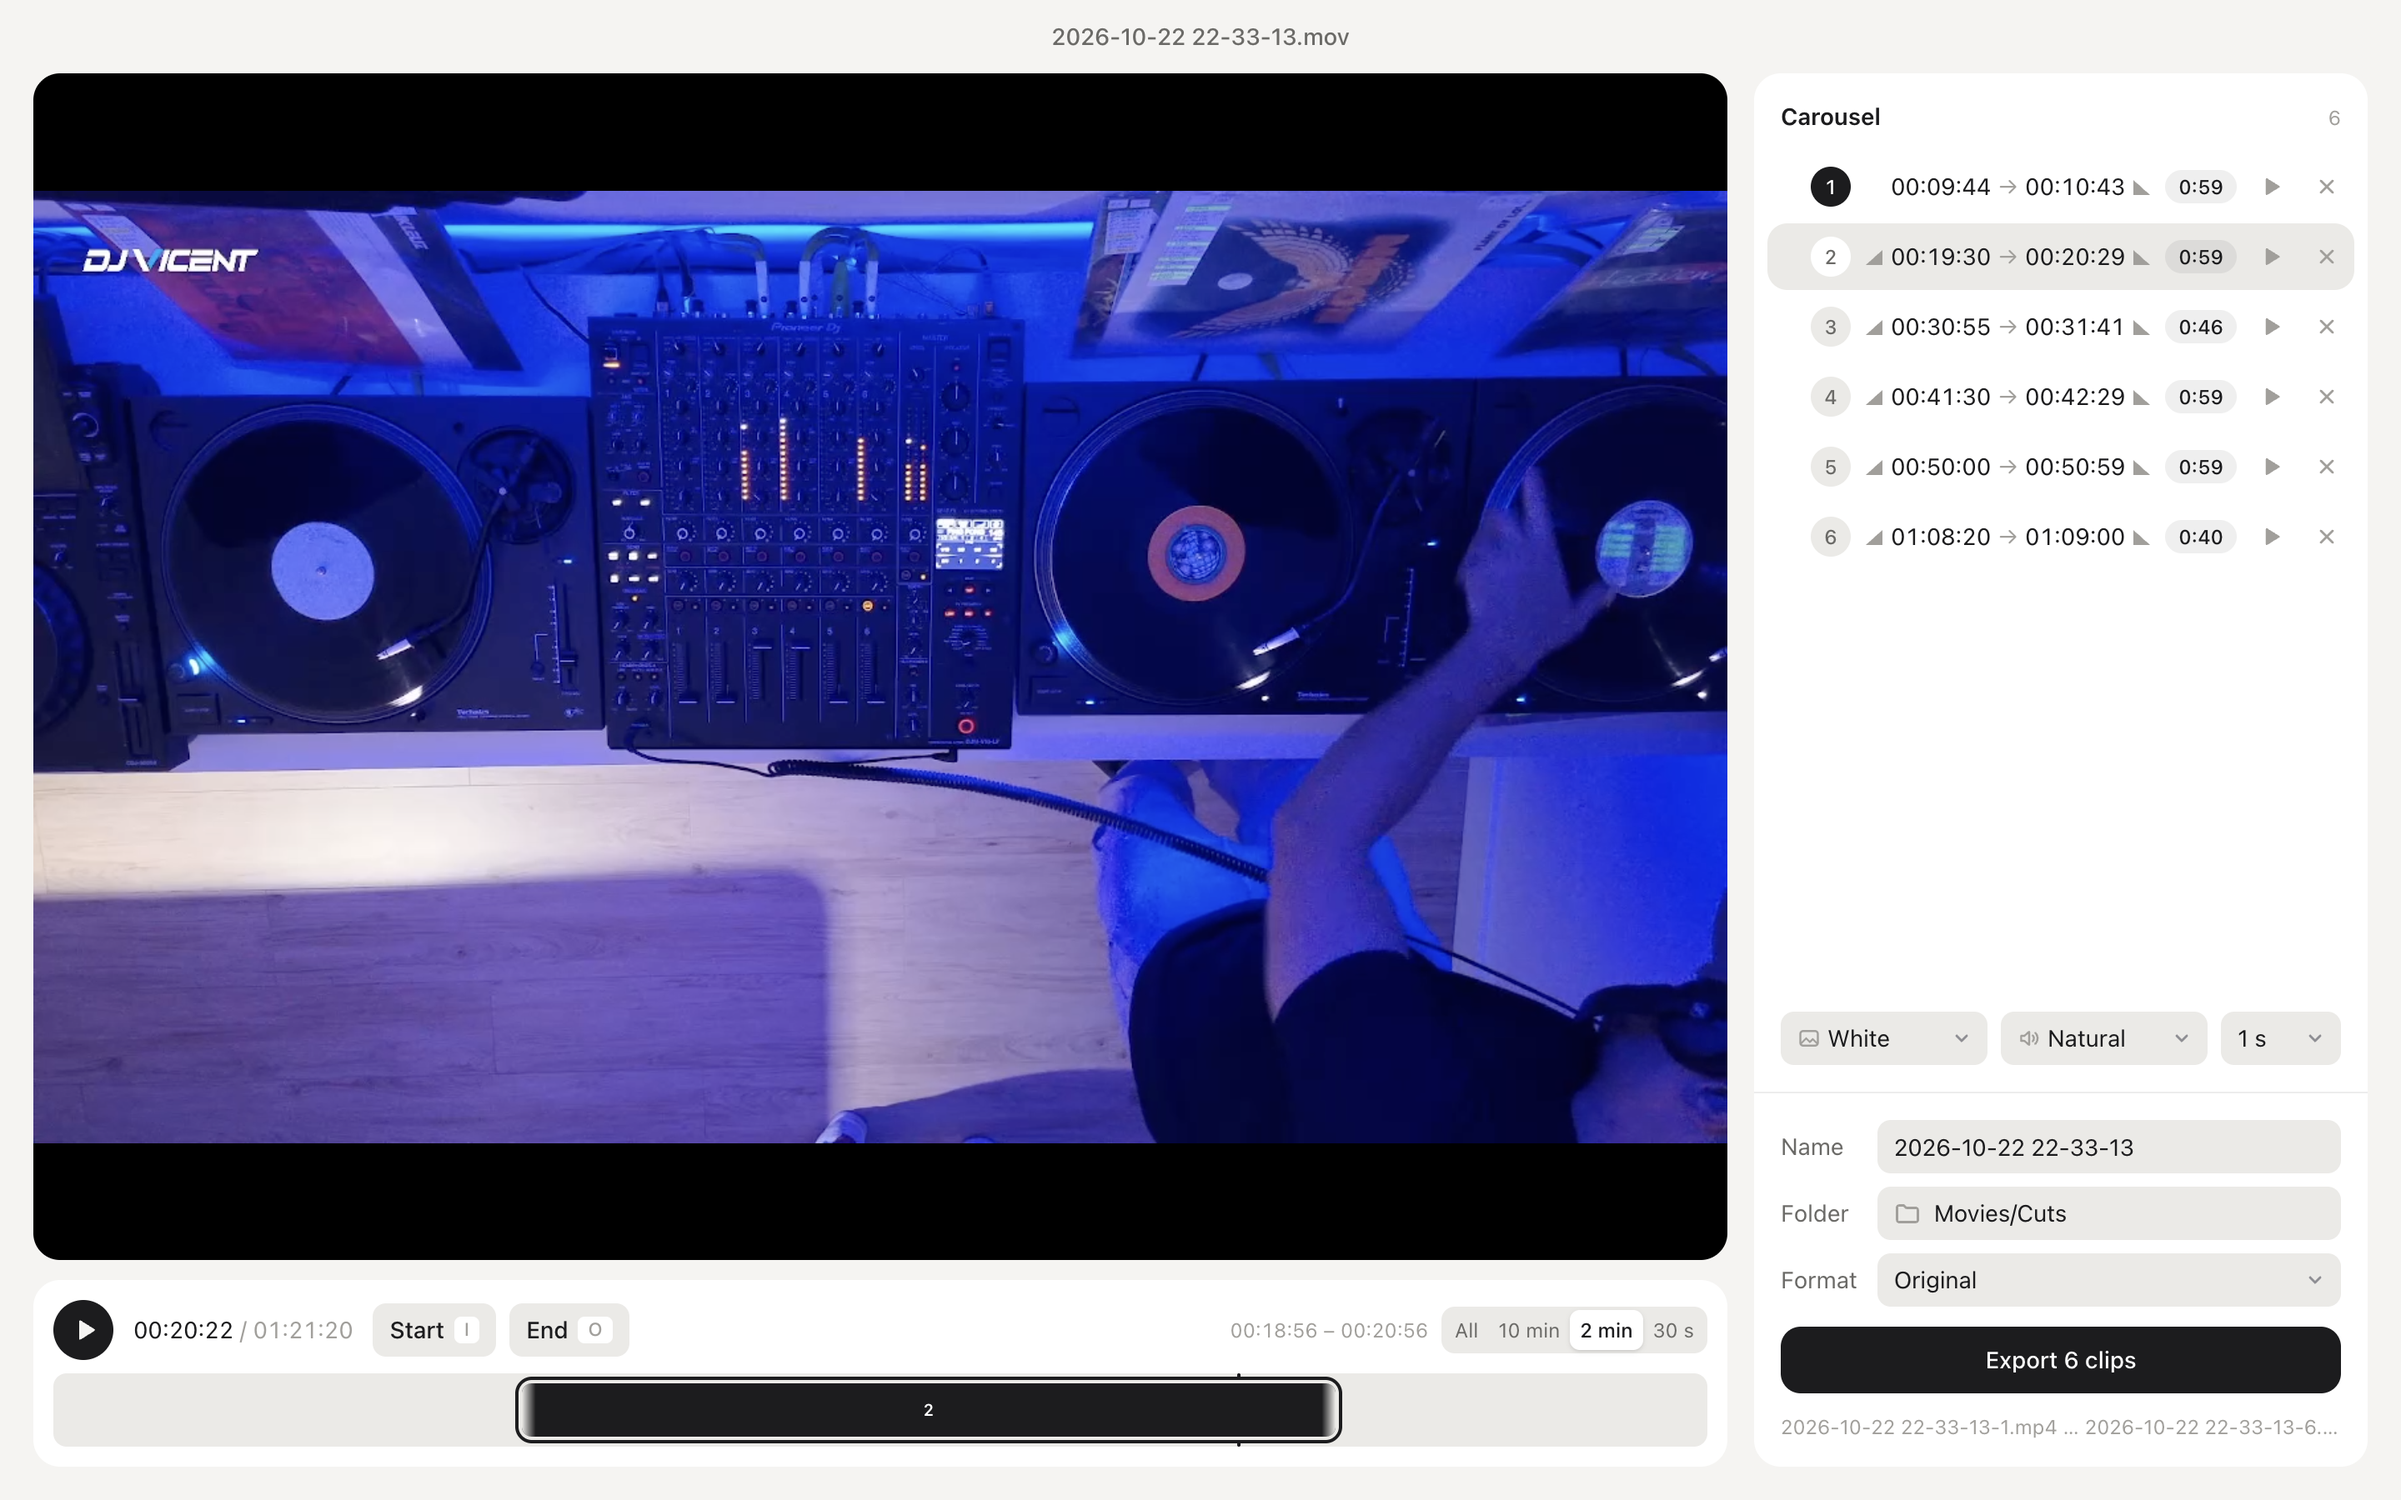
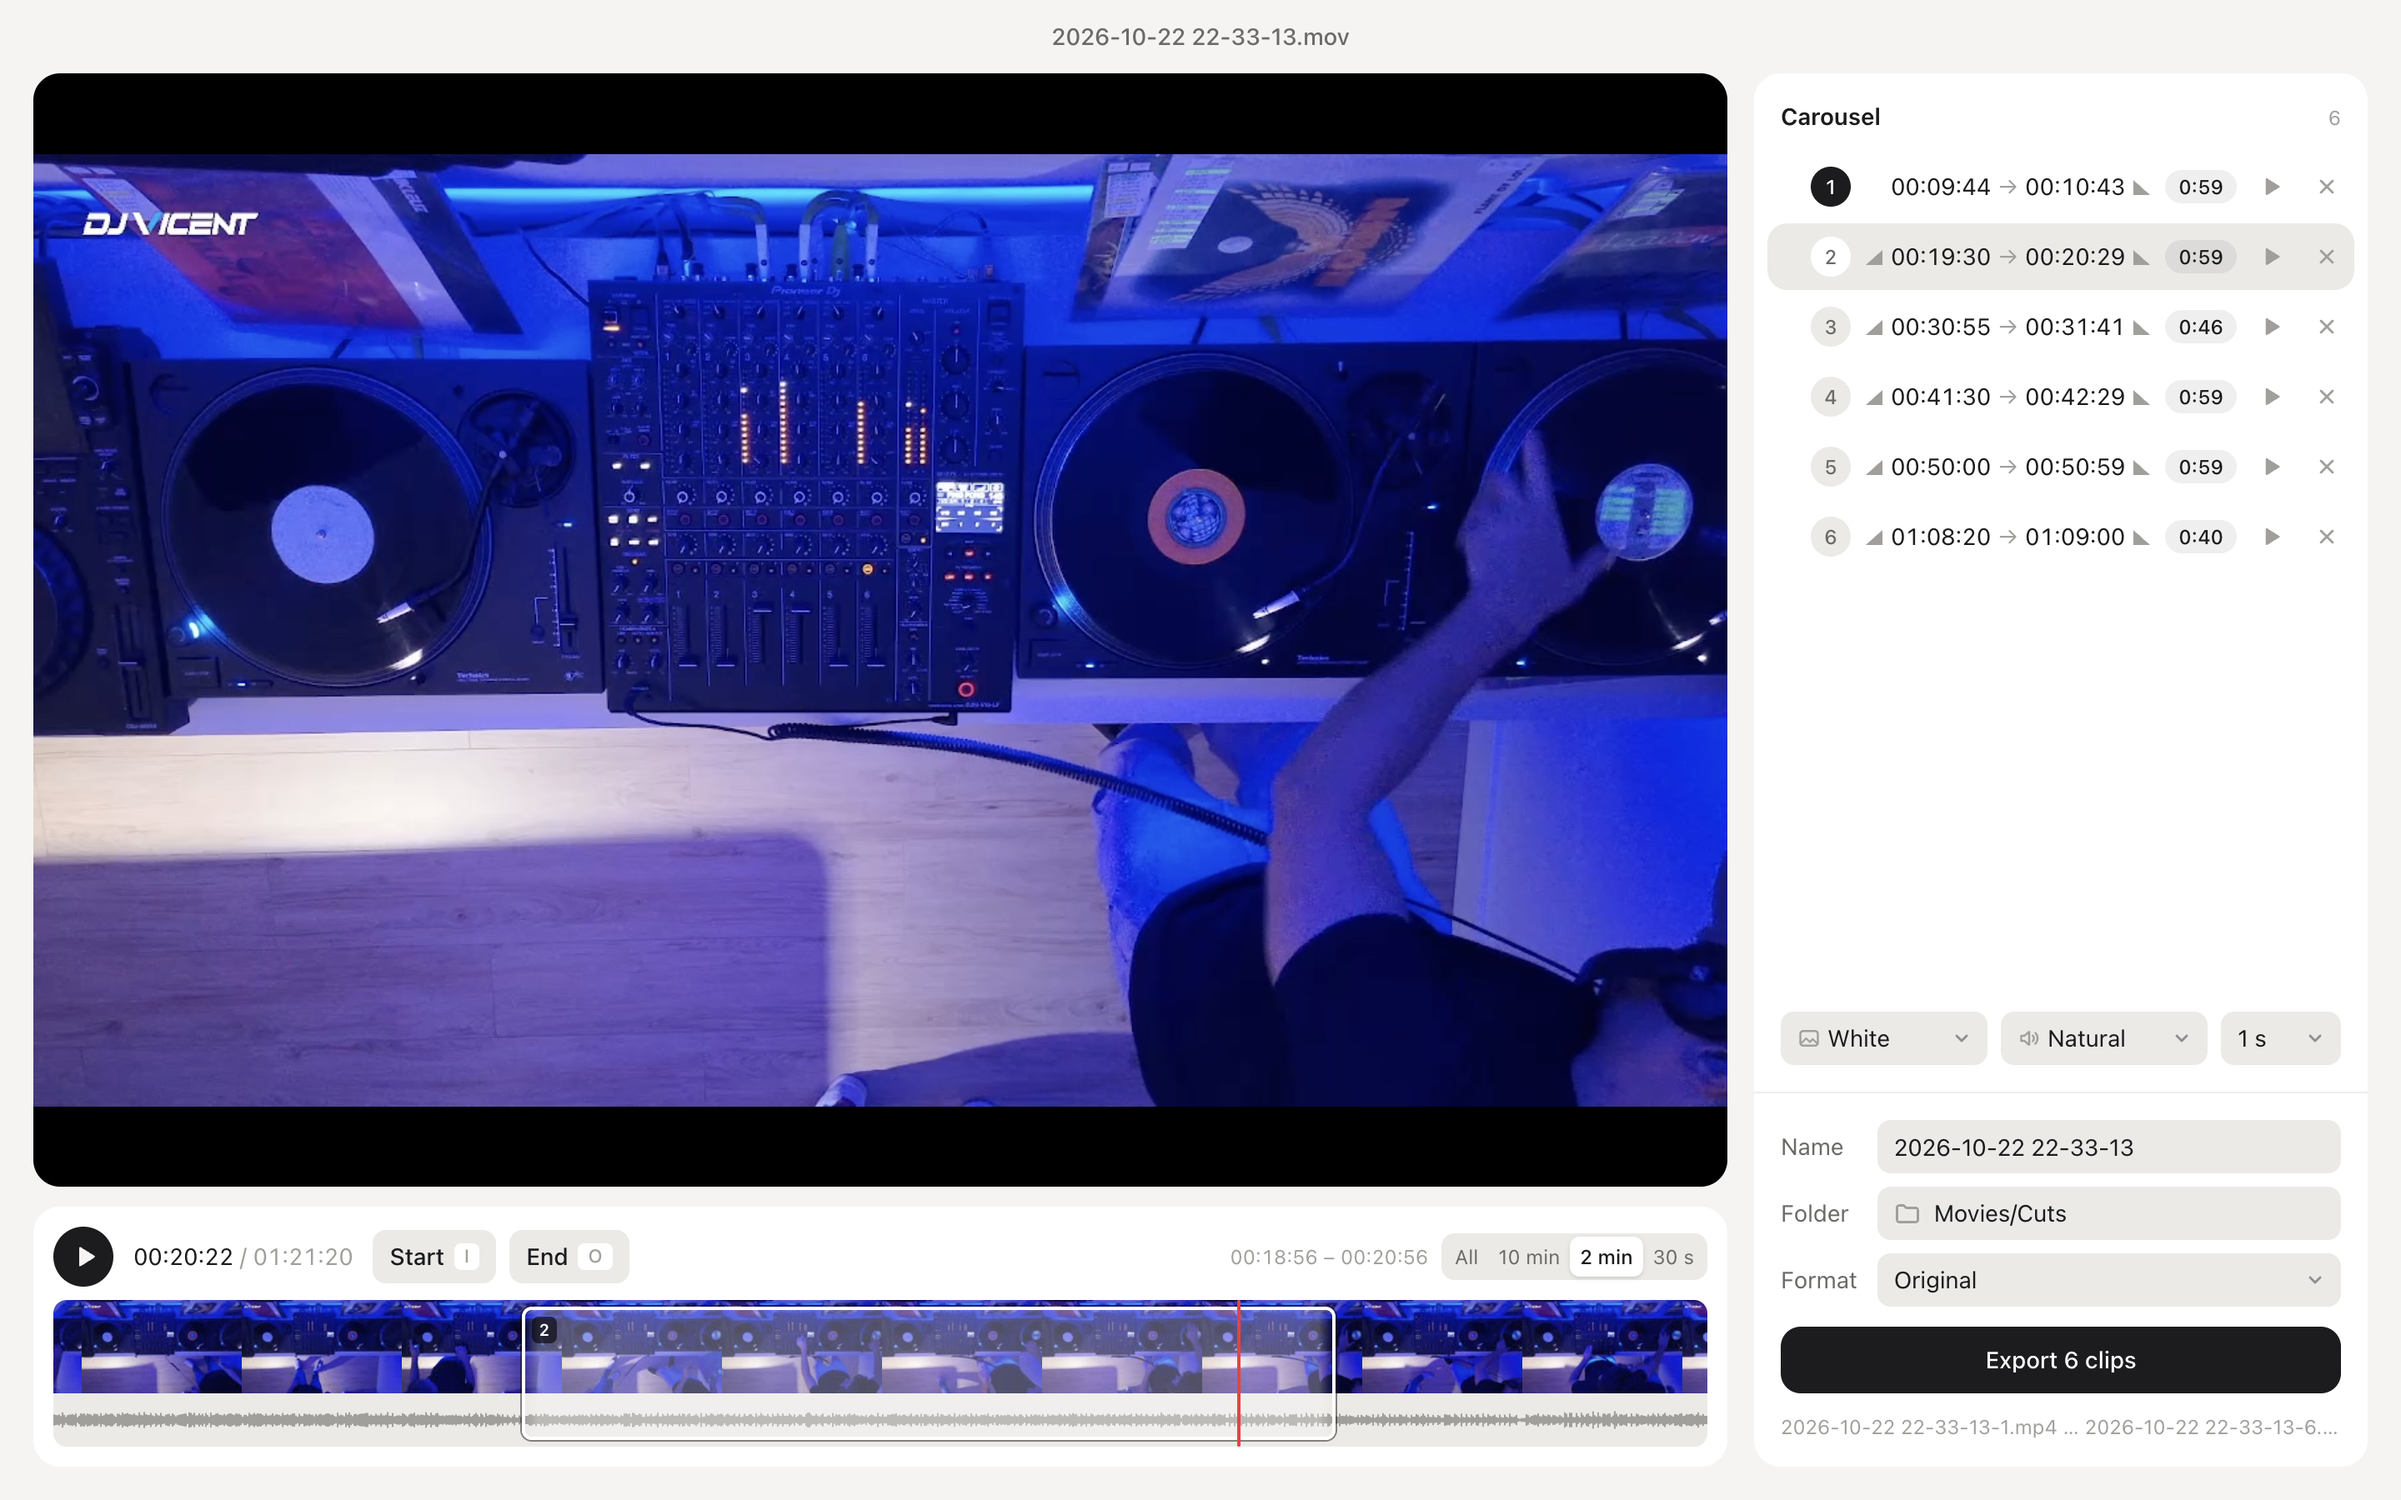
Refresh App Store and website screenshots with the filmstrip timeline

Changed region(s): [[0.0, 0.0933, 0.7188, 0.9644]]

diff --git a/web/content.ts b/web/content.ts
@@ -24,6 +24,7 @@ export const content = {
       featuresTitle: "What it does",
       features: [
         "Mark clips while you listen, with I and O, and play or pause with Space.",
+        "See the video frames and the audio waveform along the timeline, like in a video editor.",
         "Drag clips and their edges on the timeline, and zoom in to fine-tune to the second.",
         "Clips up to 59 seconds are carousel-ready. Longer ones are allowed for regular posts.",
         "Fades to black or white, and smooth audio fades, set per clip.",
@@ -34,6 +35,7 @@ export const content = {
       privacyTitle: "Private by design",
       privacy: "Everything happens on your Mac. No account, no uploads, no tracking.",
       screenshotAlt: "Cuts with a DJ session video, six clips marked and one selected",
+      zoomAlt: "The timeline zoomed to two minutes, with video frames, the waveform and a selected clip",
     },
     privacy: {
       title: "Privacy policy",
@@ -94,6 +96,7 @@ export const content = {
       featuresTitle: "Qué hace",
       features: [
         "Marca clips mientras escuchas, con I y O, y reproduce o pausa con la barra espaciadora.",
+        "Ve los fotogramas del vídeo y la forma de onda del audio en la línea de tiempo, como en un editor de vídeo.",
         "Arrastra los clips y sus bordes en la línea de tiempo, y haz zoom para afinar al segundo.",
         "Los clips de hasta 59 segundos valen para carrusel. Los más largos se permiten para publicaciones normales.",
         "Fundidos a negro o a blanco, y fundidos de audio suaves, en cada clip.",
@@ -104,6 +107,7 @@ export const content = {
       privacyTitle: "Privada por diseño",
       privacy: "Todo ocurre en tu Mac. Sin cuentas, sin subidas, sin rastreo.",
       screenshotAlt: "Cuts con el vídeo de una sesión de DJ, seis clips marcados y uno seleccionado",
+      zoomAlt: "La línea de tiempo con zoom de dos minutos, con fotogramas, forma de onda y un clip seleccionado",
     },
     privacy: {
       title: "Política de privacidad",

diff --git a/src/renderer/src/filmstrip.ts b/src/renderer/src/filmstrip.ts
@@ -1,11 +1,19 @@
 export type Tile = { time: number; left: number }
 
-export function filmstripTiles(viewStart: number, viewSpan: number, width: number, tileWidth: number): Tile[] {
+const LAST_FRAME_MARGIN = 0.5
+
+export function filmstripTiles(
+  viewStart: number,
+  viewSpan: number,
+  width: number,
+  tileWidth: number,
+  duration = Infinity
+): Tile[] {
   if (width <= 0 || viewSpan <= 0) return []
   const tileSpan = (viewSpan * tileWidth) / width
   const tiles: Tile[] = []
   for (let i = Math.floor(viewStart / tileSpan); i * tileSpan < viewStart + viewSpan; i++) {
-    tiles.push({ time: (i + 0.5) * tileSpan, left: ((i * tileSpan - viewStart) / viewSpan) * 100 })
+    tiles.push({ time: Math.min((i + 0.5) * tileSpan, duration - LAST_FRAME_MARGIN), left: ((i * tileSpan - viewStart) / viewSpan) * 100 })
   }
   return tiles
 }

diff --git a/src/renderer/src/filmstrip.test.ts b/src/renderer/src/filmstrip.test.ts
@@ -14,6 +14,12 @@ describe('filmstripTiles', () => {
     expect(after.slice(0, 4)).toEqual(before.slice(1))
   })
 
+  it('takes the last frame inside the video, so the filmstrip reaches the end of the timeline', () => {
+    const tiles = filmstripTiles(0, 100, 450, 100, 100)
+    expect(tiles.at(-1)!.time).toBeLessThan(100)
+    expect(tiles).toHaveLength(5)
+  })
+
   it('returns nothing until the timeline has a width and the video a duration', () => {
     expect(filmstripTiles(0, 100, 0, 100)).toEqual([])
     expect(filmstripTiles(0, 0, 500, 100)).toEqual([])

diff --git a/src/renderer/src/components/Timeline.tsx b/src/renderer/src/components/Timeline.tsx
@@ -38,7 +38,7 @@ export function Timeline({ videoPath, duration, viewStart, viewSpan, time, clips
   const barRef = useRef<HTMLDivElement>(null)
   const canvasRef = useRef<HTMLCanvasElement>(null)
   const [width, setWidth] = useState(0)
-  const tiles = filmstripTiles(viewStart, duration > 0 ? viewSpan : 0, width, TILE_WIDTH_PX)
+  const tiles = filmstripTiles(viewStart, duration > 0 ? viewSpan : 0, width, TILE_WIDTH_PX, duration)
   const frames = useThumbnails(videoPath, tiles.map((tile) => tile.time))
   const peaks = useWaveform(videoPath)
 

diff --git a/web/components/Home.tsx b/web/components/Home.tsx
@@ -27,6 +27,13 @@ export function Home({ c }: { c: Content }) {
           ))}
         </ul>
       </article>
+      <img
+        src={`/screenshots/${c.lang}-zoom.png`}
+        alt={c.home.zoomAlt}
+        width={2880}
+        height={1800}
+        className="w-full rounded-lg border border-gray-200"
+      />
       <article className="flex flex-col gap-6">
         <h2 className="text-lg font-medium text-gray-800">{c.home.privacyTitle}</h2>
         <p>{c.home.privacy}</p>

diff --git a/docs/release/app-store-listing.md b/docs/release/app-store-listing.md
@@ -25,6 +25,7 @@ Cuts turns a long recording into short clips, ready to post.
 Drop in a video, listen, and mark where each clip starts and ends. Drag clips on the timeline to fine-tune them, zoom in for second-accurate edits, and reorder them into the order you will post them.
 
 • Mark clips while you listen, with keyboard shortcuts (I / O, Space)
+• See the video frames and the audio waveform along the timeline
 • Clips of up to 59 seconds are flagged as carousel-ready; longer ones are allowed for regular posts
 • Fades to black or white and smooth audio fades, per clip
 • Original size, or 4:5, 1:1 and 9:16 crops at 1080 px
@@ -39,6 +40,7 @@ Cuts convierte una grabación larga en clips cortos, listos para publicar.
 Arrastra un vídeo, escúchalo y marca dónde empieza y acaba cada clip. Arrastra los clips en la línea de tiempo para afinarlos, haz zoom para ajustar al segundo y ordénalos tal y como los vas a publicar.
 
 • Marca clips mientras escuchas, con atajos de teclado (I / O, espacio)
+• Ve los fotogramas del vídeo y la forma de onda del audio en la línea de tiempo
 • Los clips de hasta 59 segundos se marcan como aptos para carrusel; los más largos se permiten para publicaciones normales
 • Fundidos a negro o a blanco y fundidos de audio suaves, en cada clip
 • Tamaño original, o recortes 4:5, 1:1 y 9:16 a 1080 px
